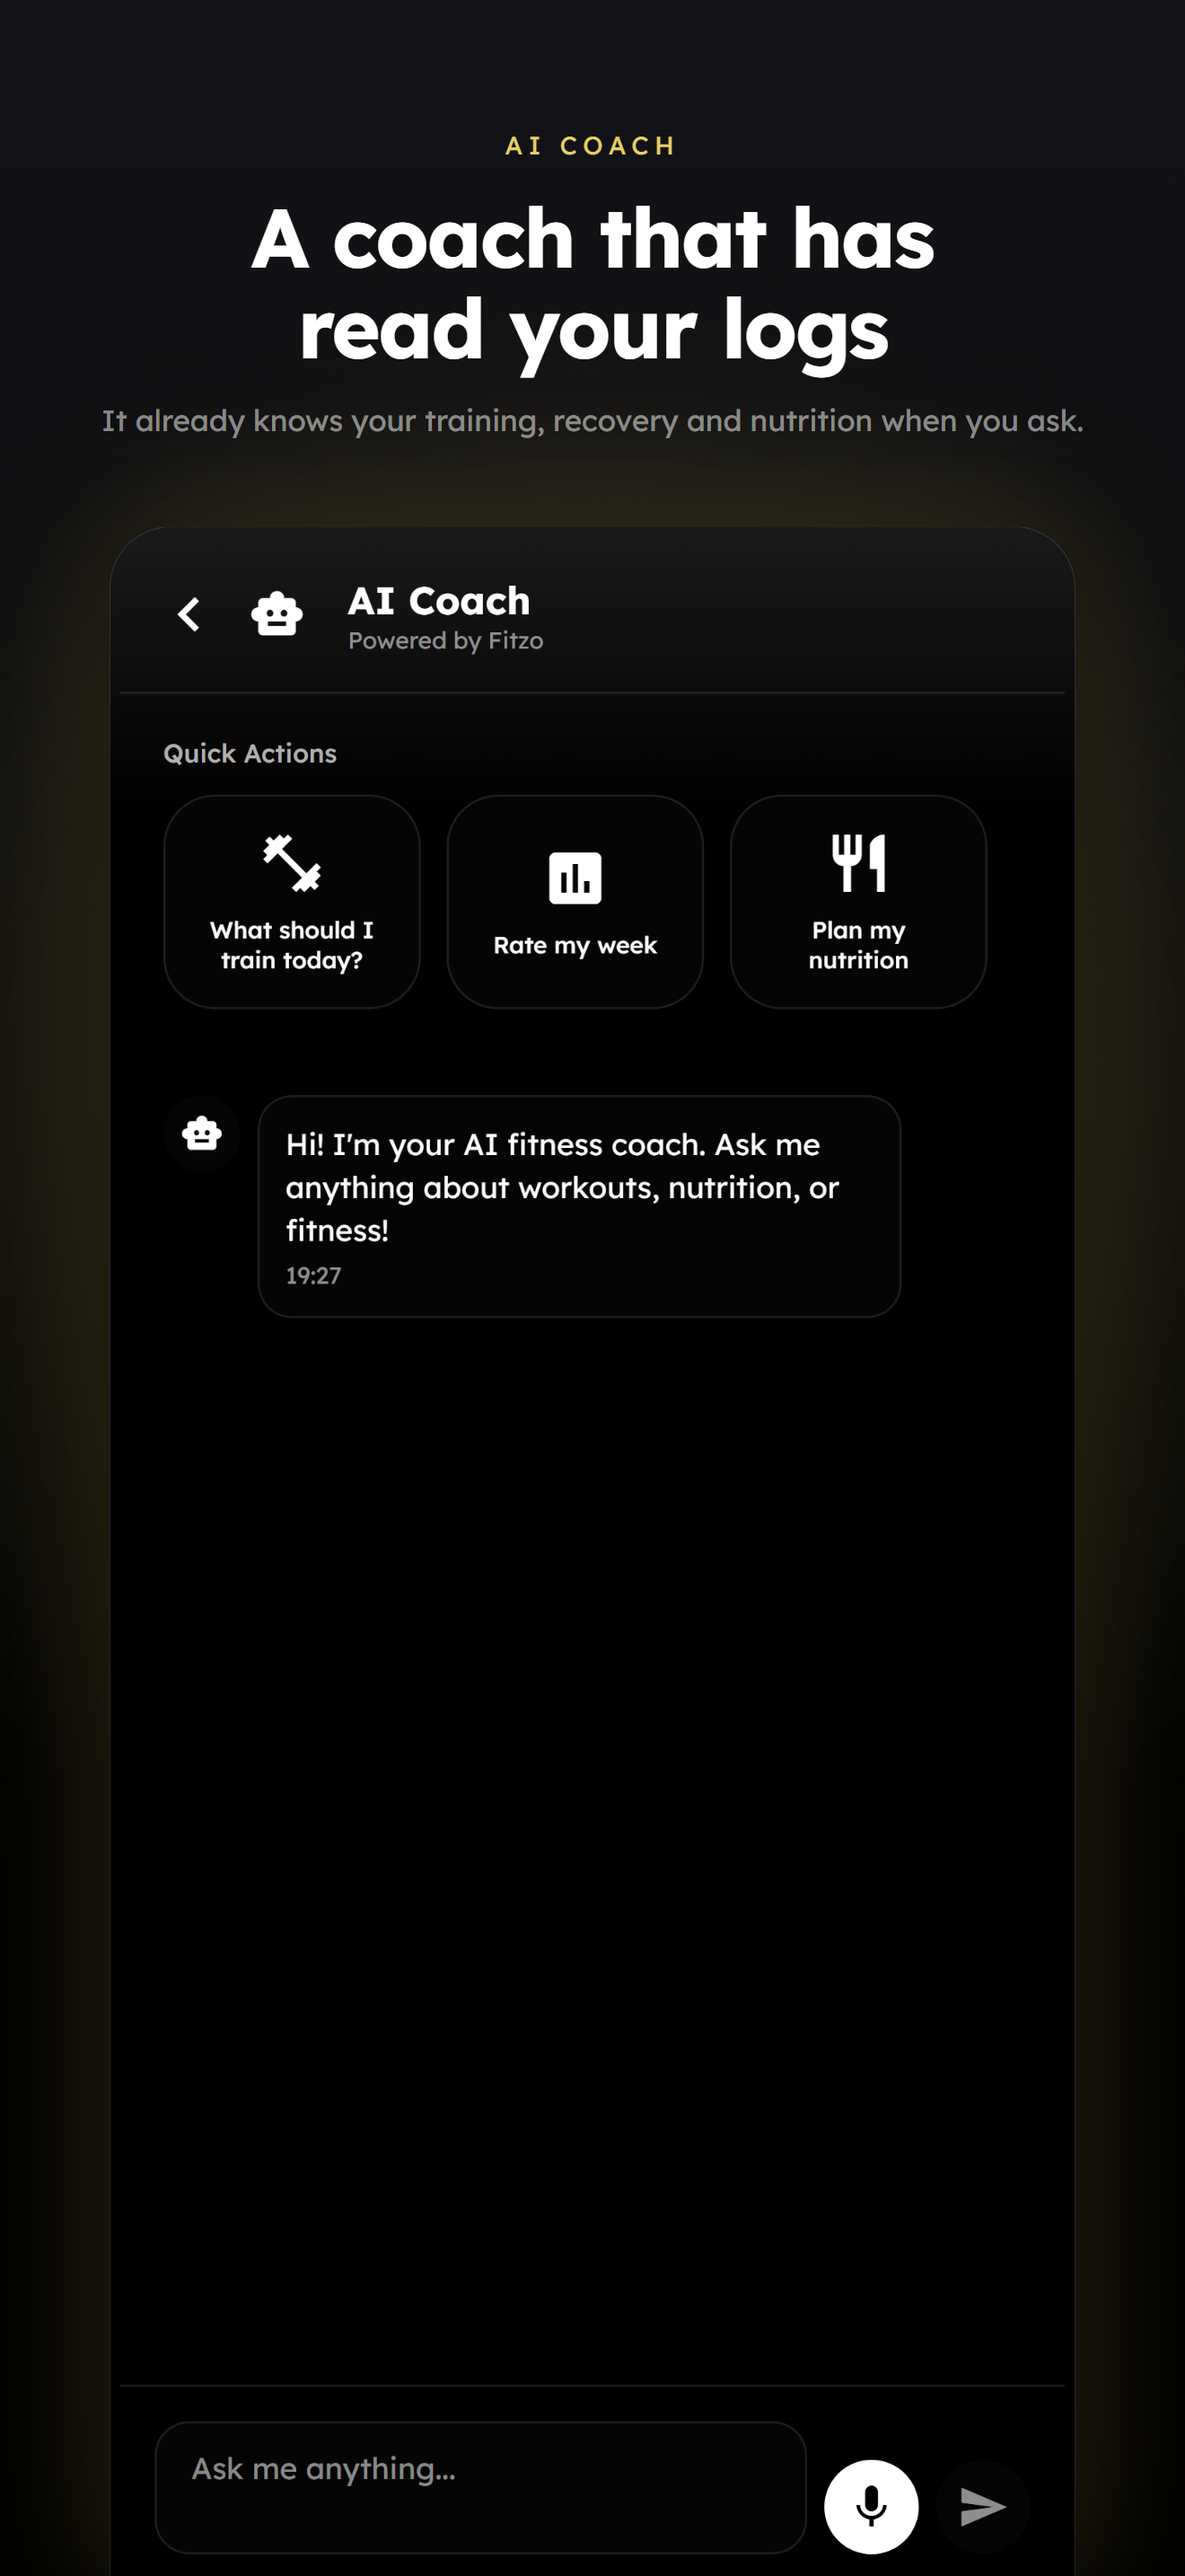
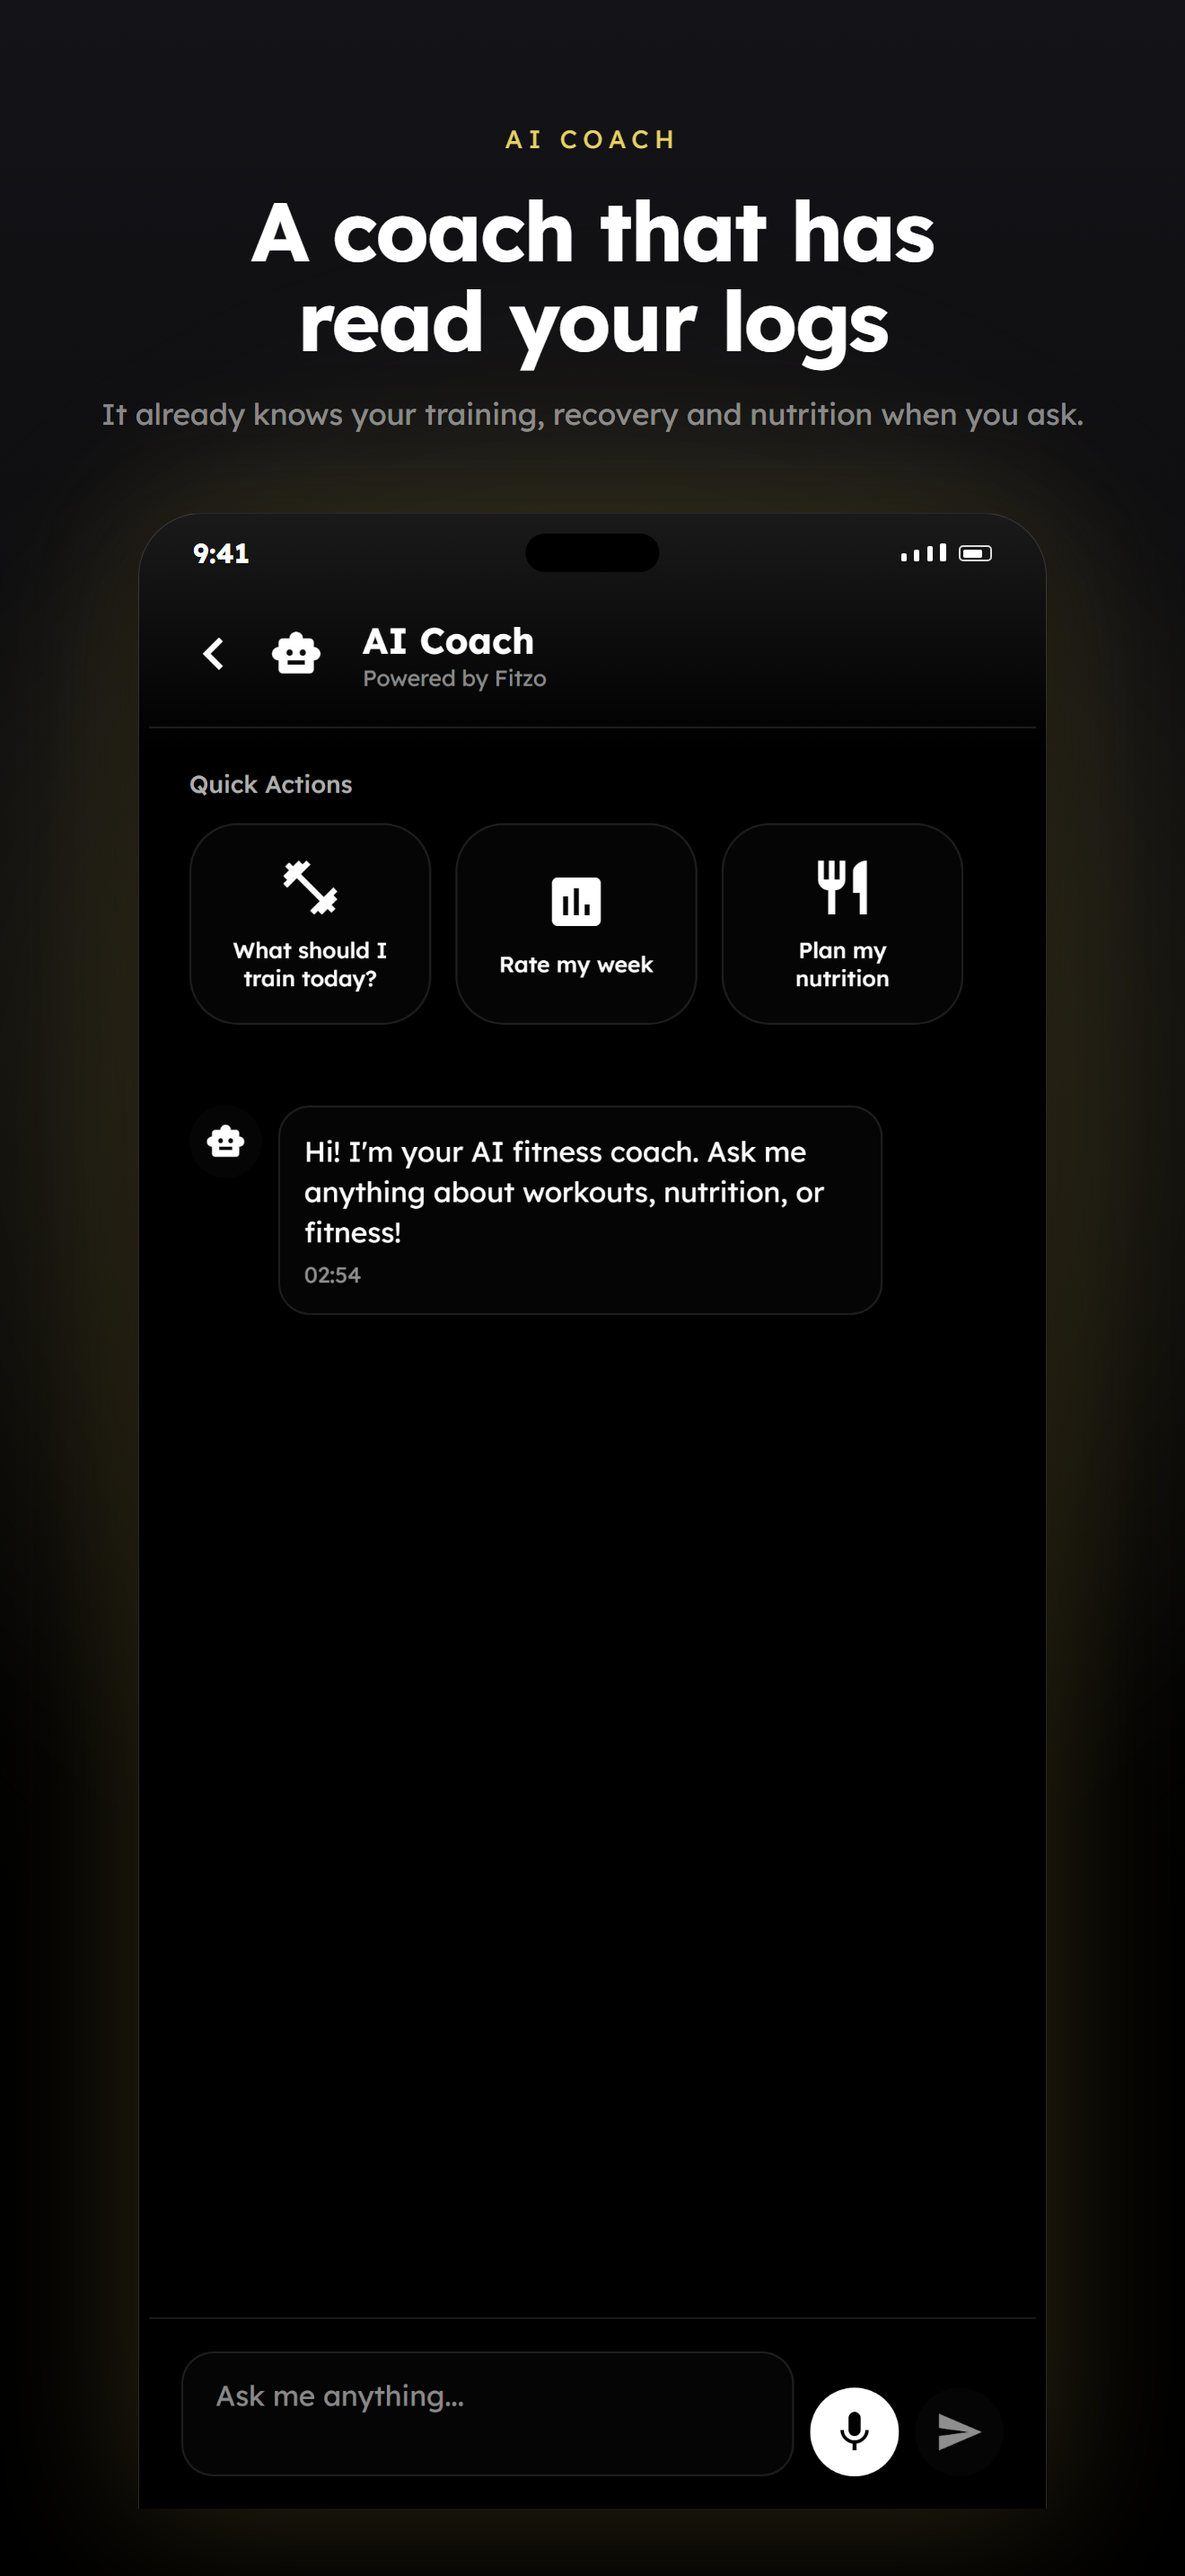
fix(store): capture at a real phone ratio, not the store's canvas ratio
The panels looked squashed because the capture step sized each viewport to the
destination store's canvas — including 360x720, exactly 2.000, to respect
Google Play's 2:1 screenshot cap. No phone is 2.000: a Pixel 8 is 2.221, a
Galaxy S24 2.167, an iPhone 17 Pro Max 2.173. The app was being laid out in a
stubby 720pt-tall box, so its vertical rhythm crammed. The store's canvas ratio
had leaked into the DEVICE ratio.

Those are independent. The device is an image placed on the panel, so one
capture at a true phone shape now feeds both canvases; each scales it to width
and lets it bleed off the bottom.

Also adds the status bar and dynamic island. The web build renders neither, so
without them the capture reads as a cropped rectangle rather than a phone.

Each route is now captured at the scroll position showing the feature its
headline names. Stats anchors on the muscle heatmap, which sits below the fold
— the 'See what you actually trained' panel had been showing a summary card
instead of the heatmap, and the breakdown beneath it read UNTRAINED because the
seeded week had aged. Re-seeded so the current week covers chest, back, arms,
legs and shoulders.

diff --git a/docs/STORE_LAUNCH.md b/docs/STORE_LAUNCH.md
@@ -237,14 +237,24 @@ Captured from the live app signed in as the reviewer account.
 | Apple 6.9" (iPhone 17 Pro Max class) | 1320 × 2868 (ratio 2.173) | `mobile/store-listing/app-store/` |
 | Google Play | 1080 × 2160 (ratio 2.000) | `mobile/store-listing/google-play/` |
 
-**Upload from `store-listing/`, not `store-screenshots/`.** The latter holds the
-raw app captures, which are the *input*. Raw captures alone read as cramped in
-a store listing: the screen renders small, nothing frames it, and nothing tells
-a browsing user what they are looking at.
+**Upload from `store-listing/`, not `store-screenshots/`.** The latter holds
+the raw app captures, which are the *input*.
 
-`store-listing/` holds the finished marketing panels — accent glow, eyebrow,
-headline, and the device bleeding off the bottom edge so the screen shows large
-rather than being shrunk whole into frame.
+**The device ratio is not the panel ratio.** An earlier version captured the
+app twice, sizing each viewport to the destination store's canvas — including
+360x720 (exactly 2.000) to respect Play's 2:1 cap. No phone is 2.000: a Pixel 8
+is 2.221, a Galaxy S24 2.167, an iPhone 17 Pro Max 2.173. Laying the app out in
+a 720pt-tall box crammed its vertical rhythm and looked squashed.
+
+There is now ONE capture set at a true phone shape (1320x2868, ratio 2.173),
+feeding both canvases. Each panel scales the device to width and lets it bleed
+off the bottom, so the screen shows large instead of a whole phone shrunk into
+frame. The status bar and dynamic island are drawn by the compositor, since the
+web build renders neither and the capture would otherwise read as a cropped
+rectangle rather than a phone.
+
+Each route is captured at the scroll position that shows the feature its
+headline names — Stats anchors on the muscle heatmap, which sits below the fold.
 
 Eight panels each: home, stats, coach, logger, nutrition, profile, learn,
 buddies.
